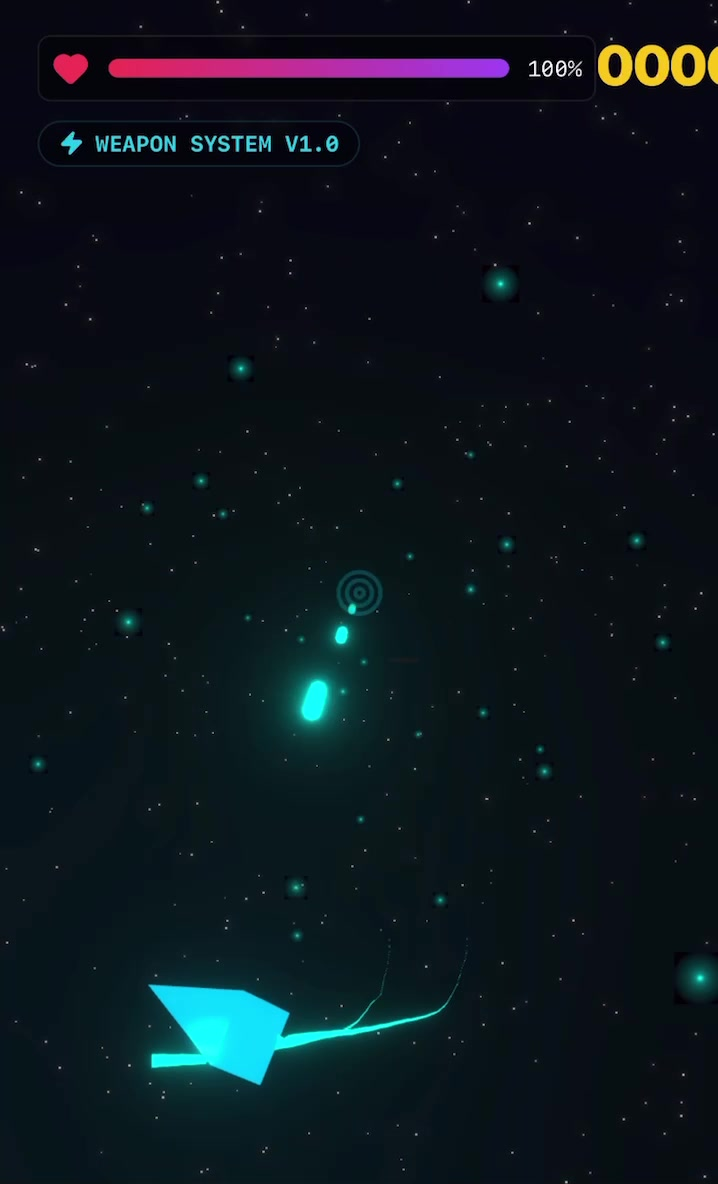
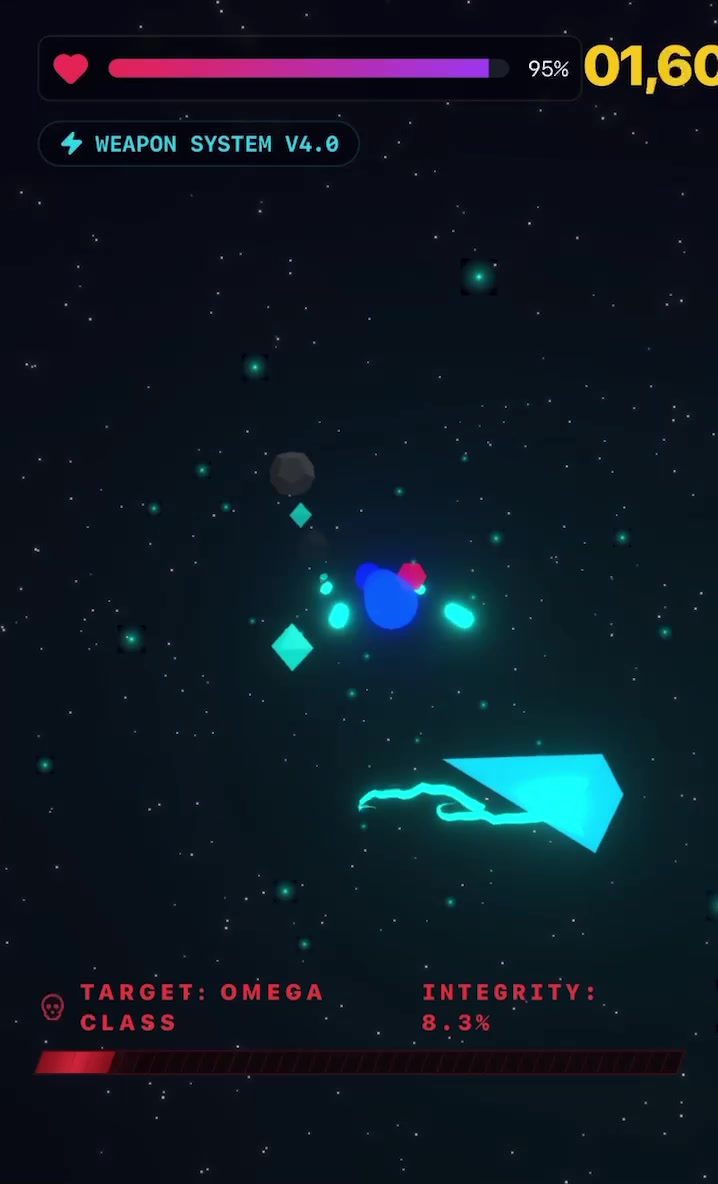
手相占いのスクショ変更

diff --git a/src/data/works.ts b/src/data/works.ts
@@ -120,7 +120,7 @@ export const works: Work[] = [
     title: '手相占いアプリ',
     description: '手のひらを撮影するだけでAIが手相を診断。運勢をチェック',
     videoUrl: '/videos/792686320.515657.mp4',
-    thumbnailUrl: '/thumbnails/792686320.515657.jpg',
+    thumbnailUrl: '/thumbnails/tesou-screenshot.jpg',
     tags: ['占い', '手相', 'AI診断'],
     category: 'utility',
     order: 12,
